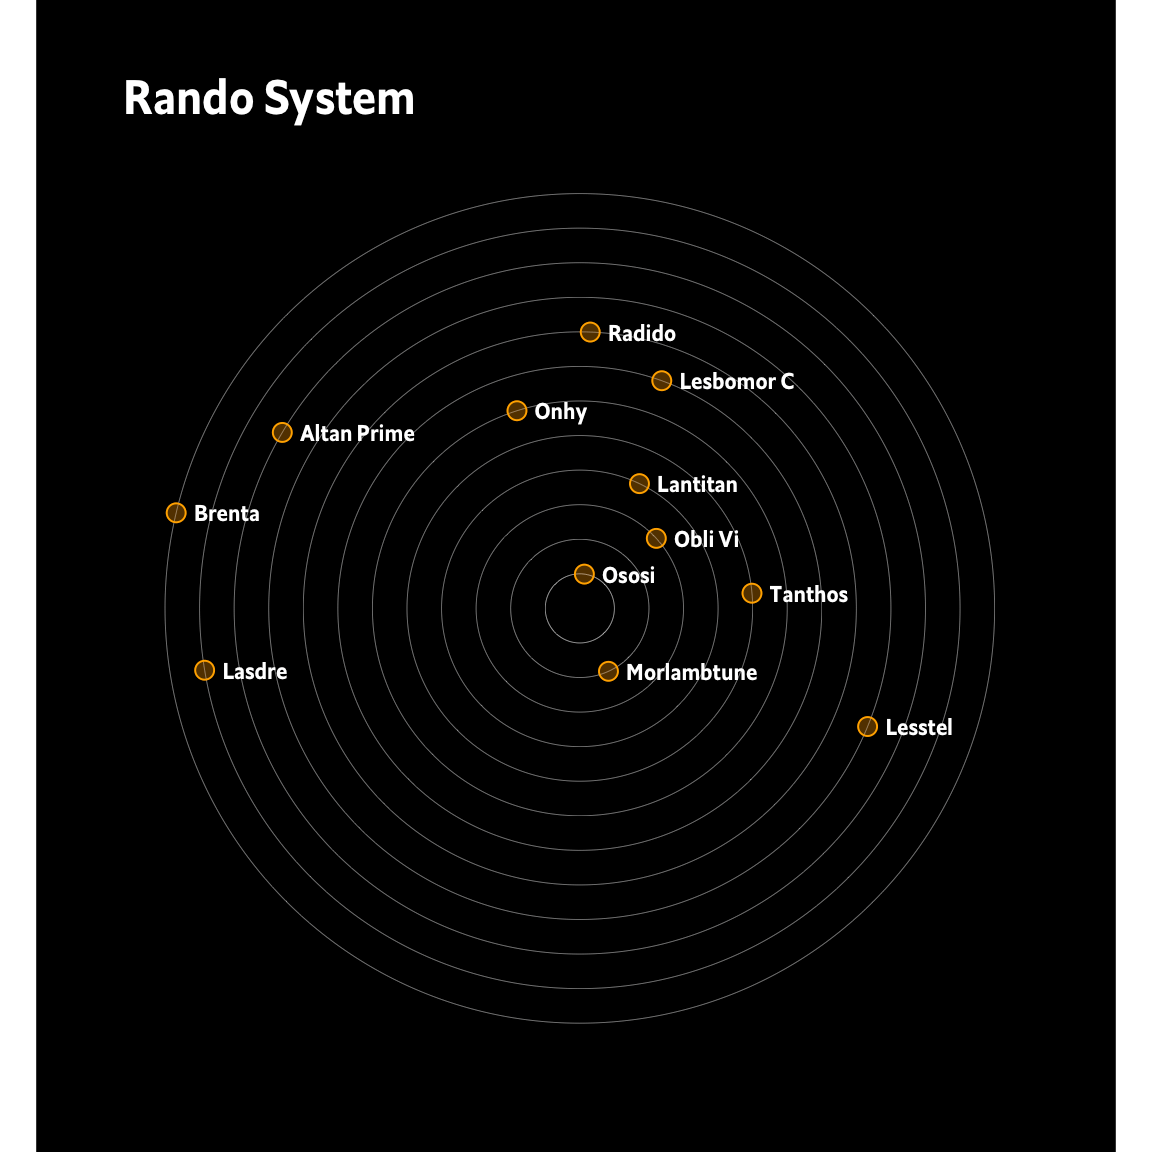
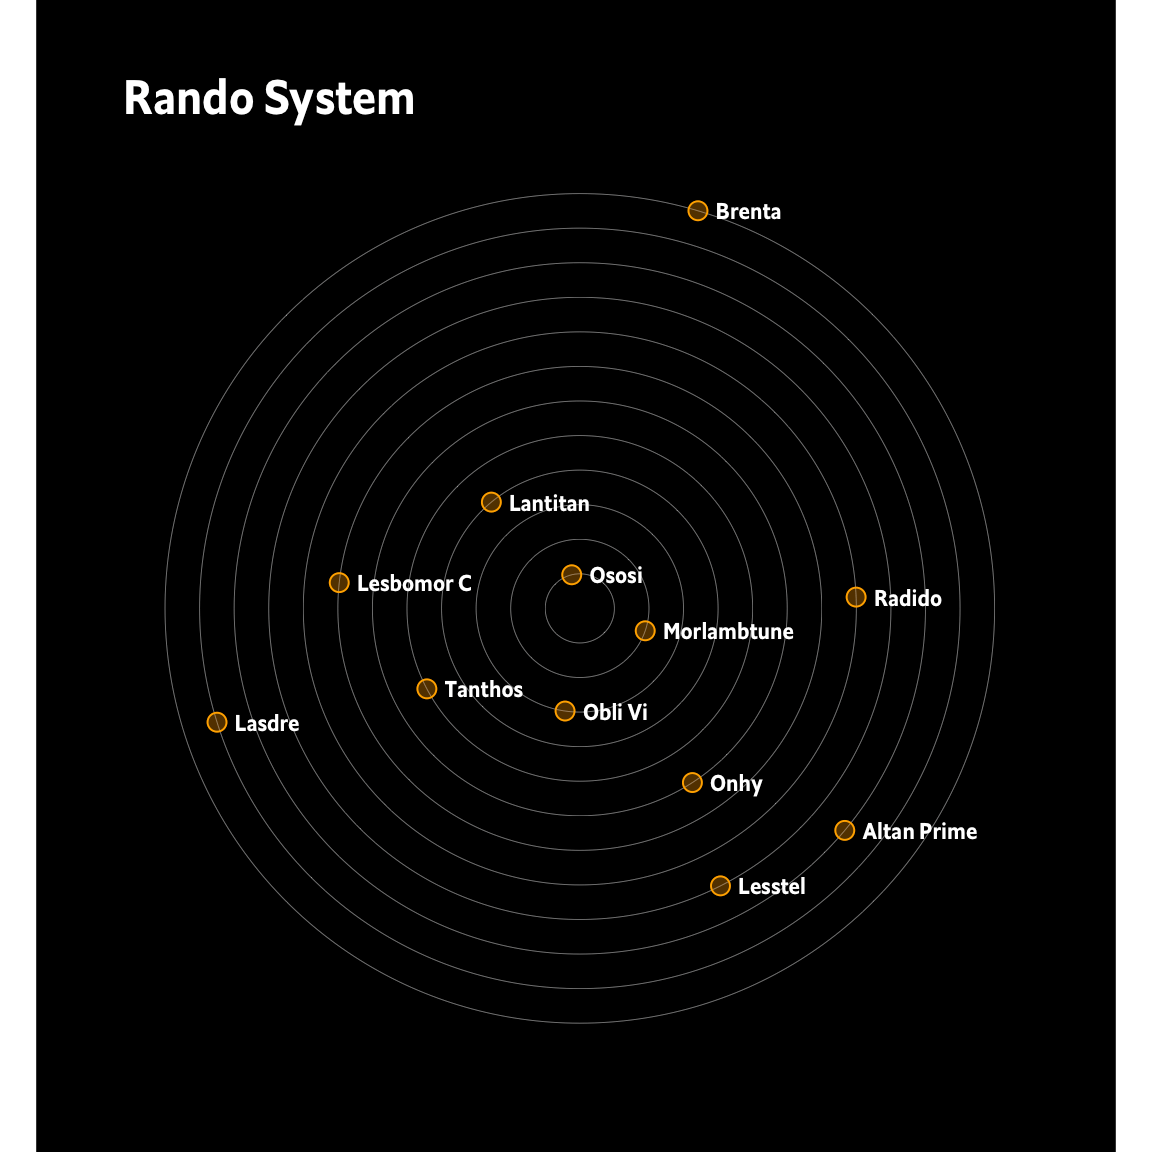
feat: switched to {ggforce} and added examples for non-uniform radii + custom planet position spec

diff --git a/README.md b/README.md
@@ -51,7 +51,7 @@ library(ggplot2)
 
 # current version
 packageVersion("ggsolar")
-## [1] '0.1.0'
+## [1] '0.1.1'
 ```
 
 ## Sol
@@ -79,6 +79,71 @@ plot_orbits(
 ```
 
 <img src="man/figures/README-sol-1.png" width="576" />
+
+## Non-uniform Radii
+
+We’ll plot Sol’s system with the square root of the actual radius AU’s
+(which are `0.39`, `0.72`, `1.00`, `1.52`, `5.20`, `9.58`, `19.18`,
+`30.07`, `39.48`):
+
+``` r
+sol_dist <- sqrt(c(0.39, 0.72, 1.00, 1.52, 5.20, 9.58, 19.18, 30.07, 39.48))
+sol_orbits <- generate_orbits(sol_planets, radii = sol_dist, num_polygon_points = 1000)
+
+set.seed(42)
+sol_placements <- randomize_planet_positions(sol_orbits)
+
+plot_orbits(
+  orbits = sol_orbits, 
+  planet_positions = sol_placements,
+  label_planets = TRUE,
+  label_family = hrbrthemes::font_es_bold
+) +
+  hrbrthemes::theme_ipsum_es(grid="") +
+  coord_equal() +
+  labs(
+    title = "Sol System (Orbits AU Sqrt.)",
+    subtitle = "Non-uniform Radii",
+    caption = "Pluto is 100% a planet"
+  ) +
+  theme_enhance_solar()
+```
+
+<img src="man/figures/README-sol-sqrt-1.png" width="672" />
+
+## Custom Planet Placements!
+
+We’ll plot Sol’s system with the square root of the actual radius AU’s
+(which are `0.39`, `0.72`, `1.00`, `1.52`, `5.20`, `9.58`, `19.18`,
+`30.07`, `39.48`):
+
+``` r
+sol_dist <- sqrt(c(0.39, 0.72, 1.00, 1.52, 5.20, 9.58, 19.18, 30.07, 39.48))
+sol_orbits <- generate_orbits(sol_planets, radii = sol_dist, num_polygon_points = 1000)
+
+my_pos <- function(n) {
+  seq(from = 0, to = 1, length.out = 9)
+}
+
+sol_placements <- randomize_planet_positions(sol_orbits, randomizer = my_pos)
+
+plot_orbits(
+  orbits = sol_orbits, 
+  planet_positions = sol_placements,
+  label_planets = TRUE,
+  label_family = hrbrthemes::font_es_bold
+) +
+  hrbrthemes::theme_ipsum_es(grid="") +
+  coord_equal() +
+  labs(
+    title = "Sol System (Orbits AU Sqrt.)",
+    subtitle = "Custom placements",
+    caption = "Pluto is 100% a planet"
+  ) +
+  theme_enhance_solar()
+```
+
+<img src="man/figures/README-sol-precise-sqrt-1.png" width="672" />
 
 ## Rando!
 
@@ -114,10 +179,10 @@ plot_orbits(
 
 | Lang | \# Files |  (%) | LoC |  (%) | Blank lines |  (%) | \# Lines |  (%) |
 |:-----|---------:|-----:|----:|-----:|------------:|-----:|---------:|-----:|
-| R    |        8 | 0.36 | 230 | 0.37 |          65 | 0.32 |      149 | 0.40 |
-| Rmd  |        1 | 0.05 |  42 | 0.07 |          26 | 0.13 |       34 | 0.09 |
+| R    |        8 | 0.36 | 217 | 0.32 |          47 | 0.25 |      150 | 0.39 |
+| Rmd  |        1 | 0.05 |  80 | 0.12 |          38 | 0.20 |       42 | 0.11 |
 | YAML |        2 | 0.09 |  38 | 0.06 |          10 | 0.05 |        2 | 0.01 |
-| SUM  |       11 | 0.50 | 310 | 0.50 |         101 | 0.50 |      185 | 0.50 |
+| SUM  |       11 | 0.50 | 335 | 0.50 |          95 | 0.50 |      194 | 0.50 |
 
 clock Package Metrics for ggsolar
 

diff --git a/NEWS.md b/NEWS.md
@@ -1,2 +1,5 @@
+0.1.1
+* Switched over to {ggforce} and `geom_circle()`
+
 0.1.0 
 * Initial release
